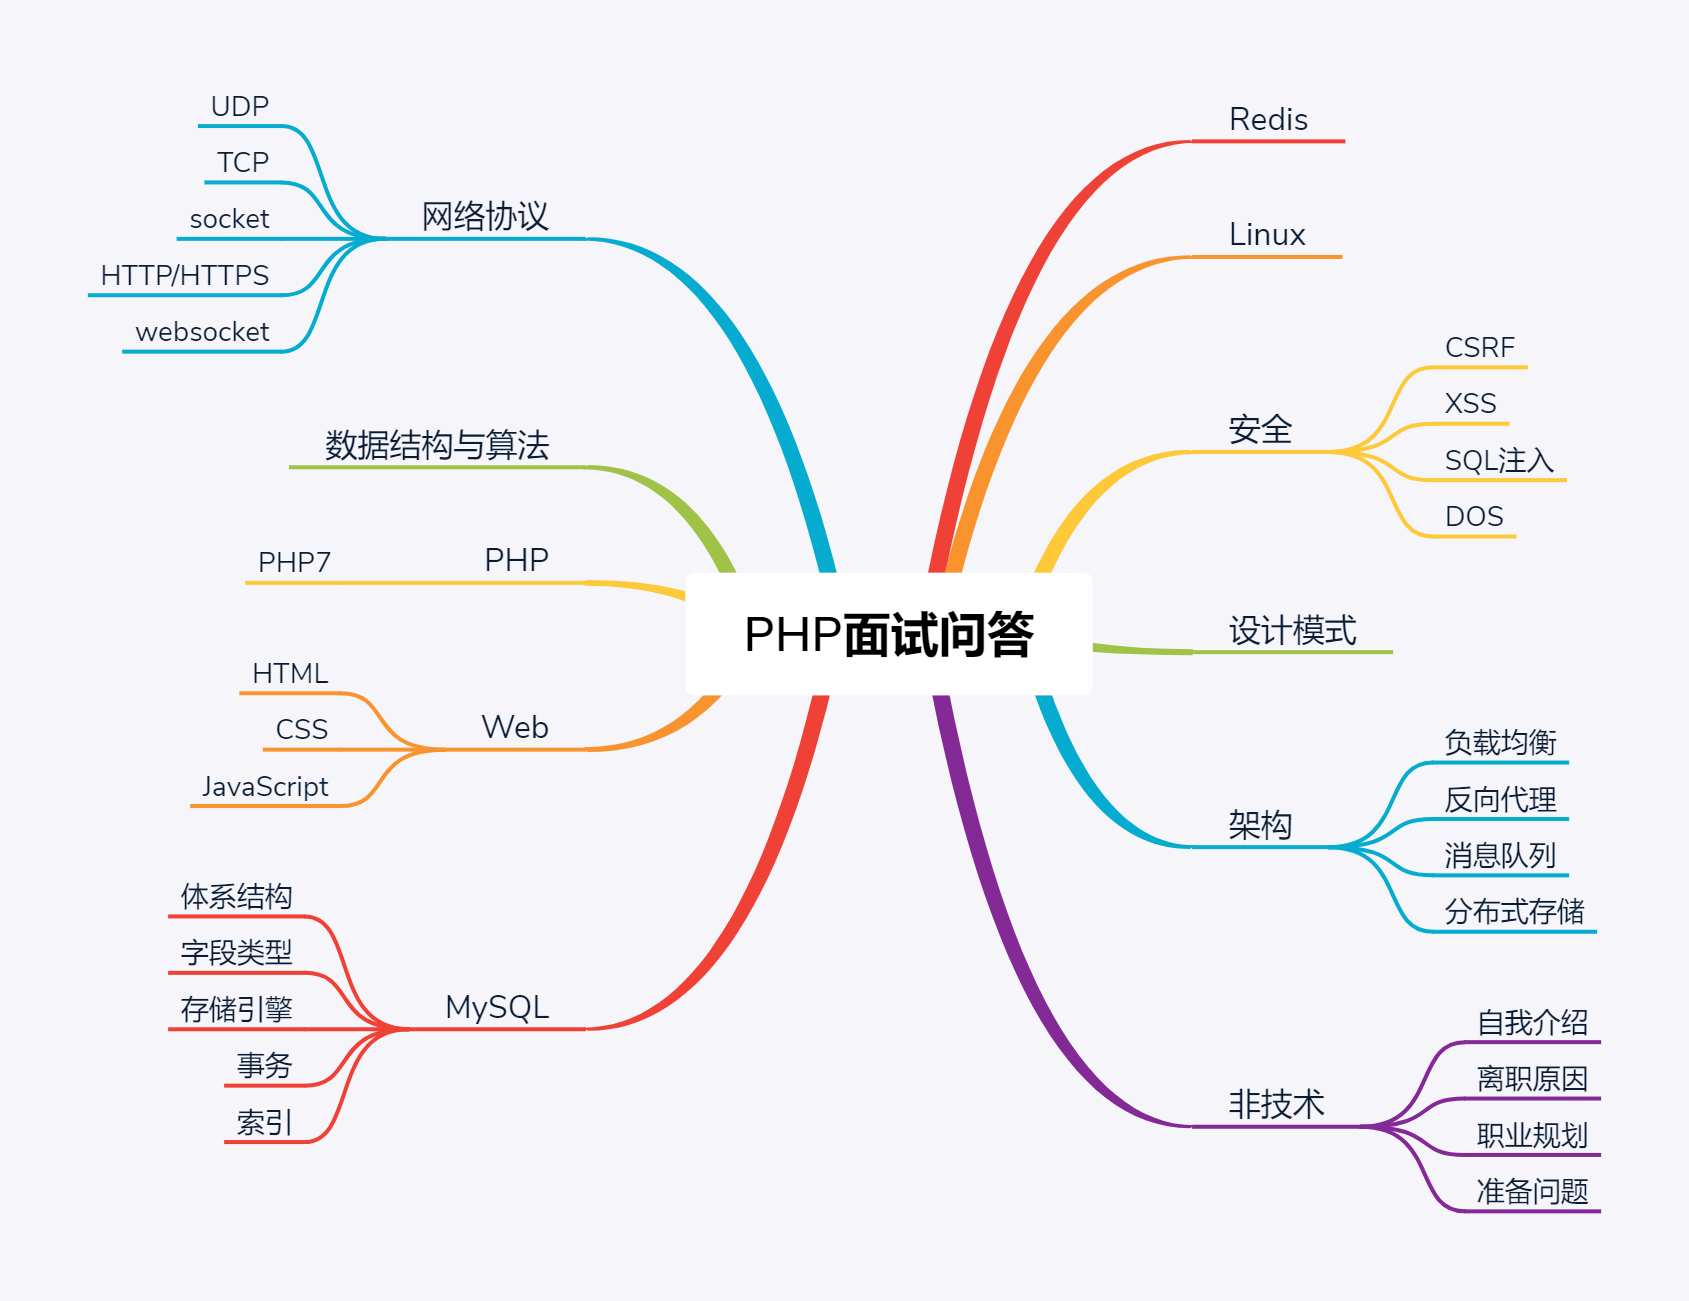
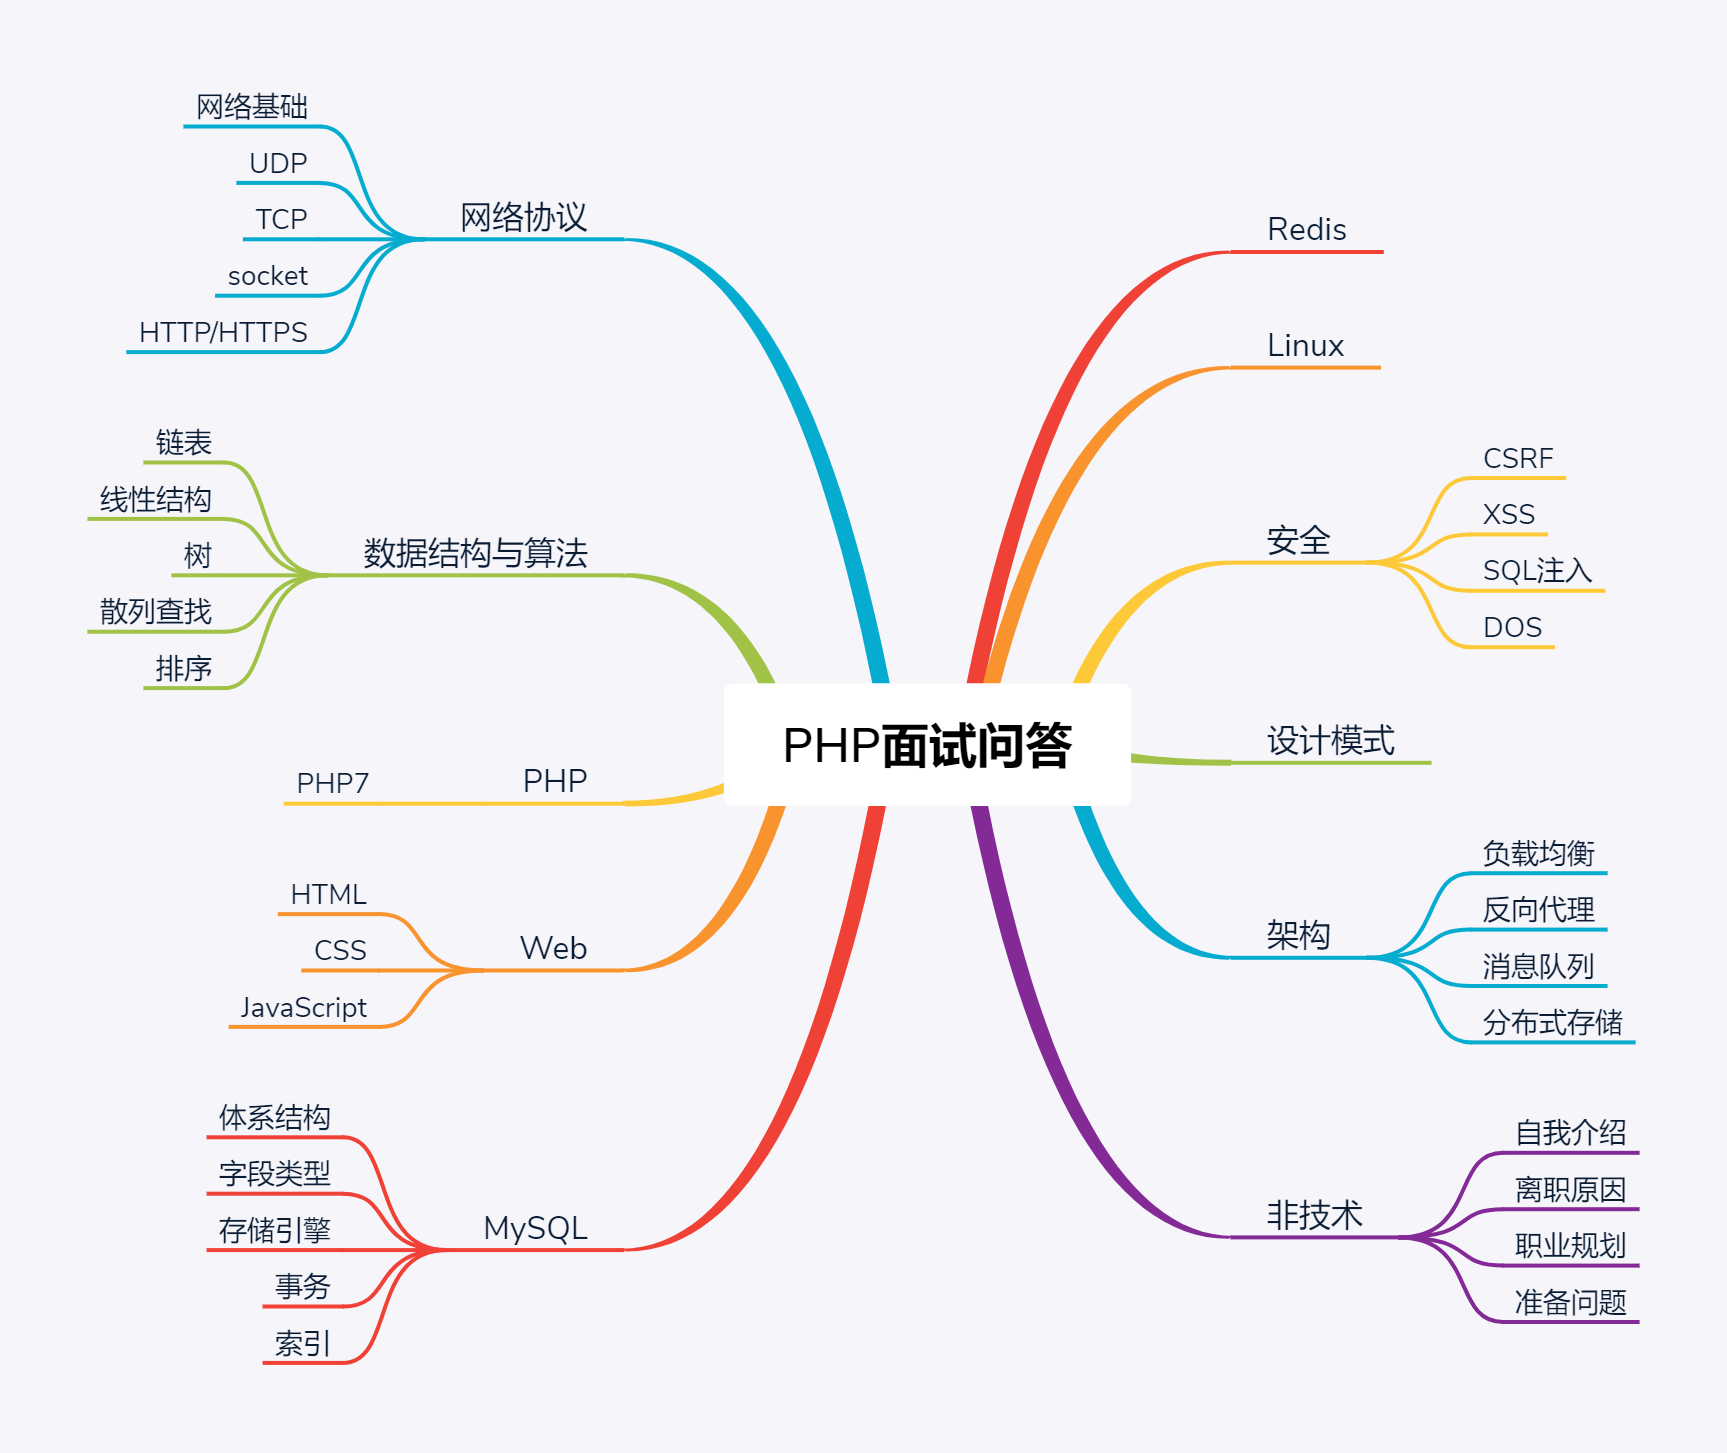
update skill tree

diff --git a/QA.md b/QA.md
@@ -221,6 +221,64 @@
 
 ## 数据结构与算法
 
+### 衡量、比较算法优劣的指标
+
+> 空间复杂度S(n)、时间复杂度T(n)
+
+### 链表有哪些
+
+> 单向链表、双向链表、循环链表
+
+### 线性结构
+
+- 线性表
+
+> 线性表是由同一类型的数据元素构成的有序序列的线性结构
+
+> 实现方式: 线性存储、链式存储
+
+- 堆栈
+
+> 堆栈可以认为是具有一定约束的线性表，插入和删除操作都作用在一个称为栈顶的端点位置
+
+- 队列
+
+> 队列是一个有序线性表，但队列的插入和删除是分别在线性表的两个不同端点进行的
+
+### 树
+
+- 查找
+
+> 顺序查找、二分查找
+
+- 二叉树
+
+- 二叉搜索树
+
+- 平衡二叉树
+
+### 散列查找
+
+### 排序
+
+- 选择排序
+
+> 简单选择排序、堆排序
+
+- 插入排序
+
+> 简单插入排序、希尔排序
+
+- 交换排序
+
+> 冒泡排序、快速排序
+
+- 归并排序
+
+- 基数排序
+
+> 桶排序、基数排序
+
 ### 冒泡排序
 ### 选择排序
 ### 插入排序
